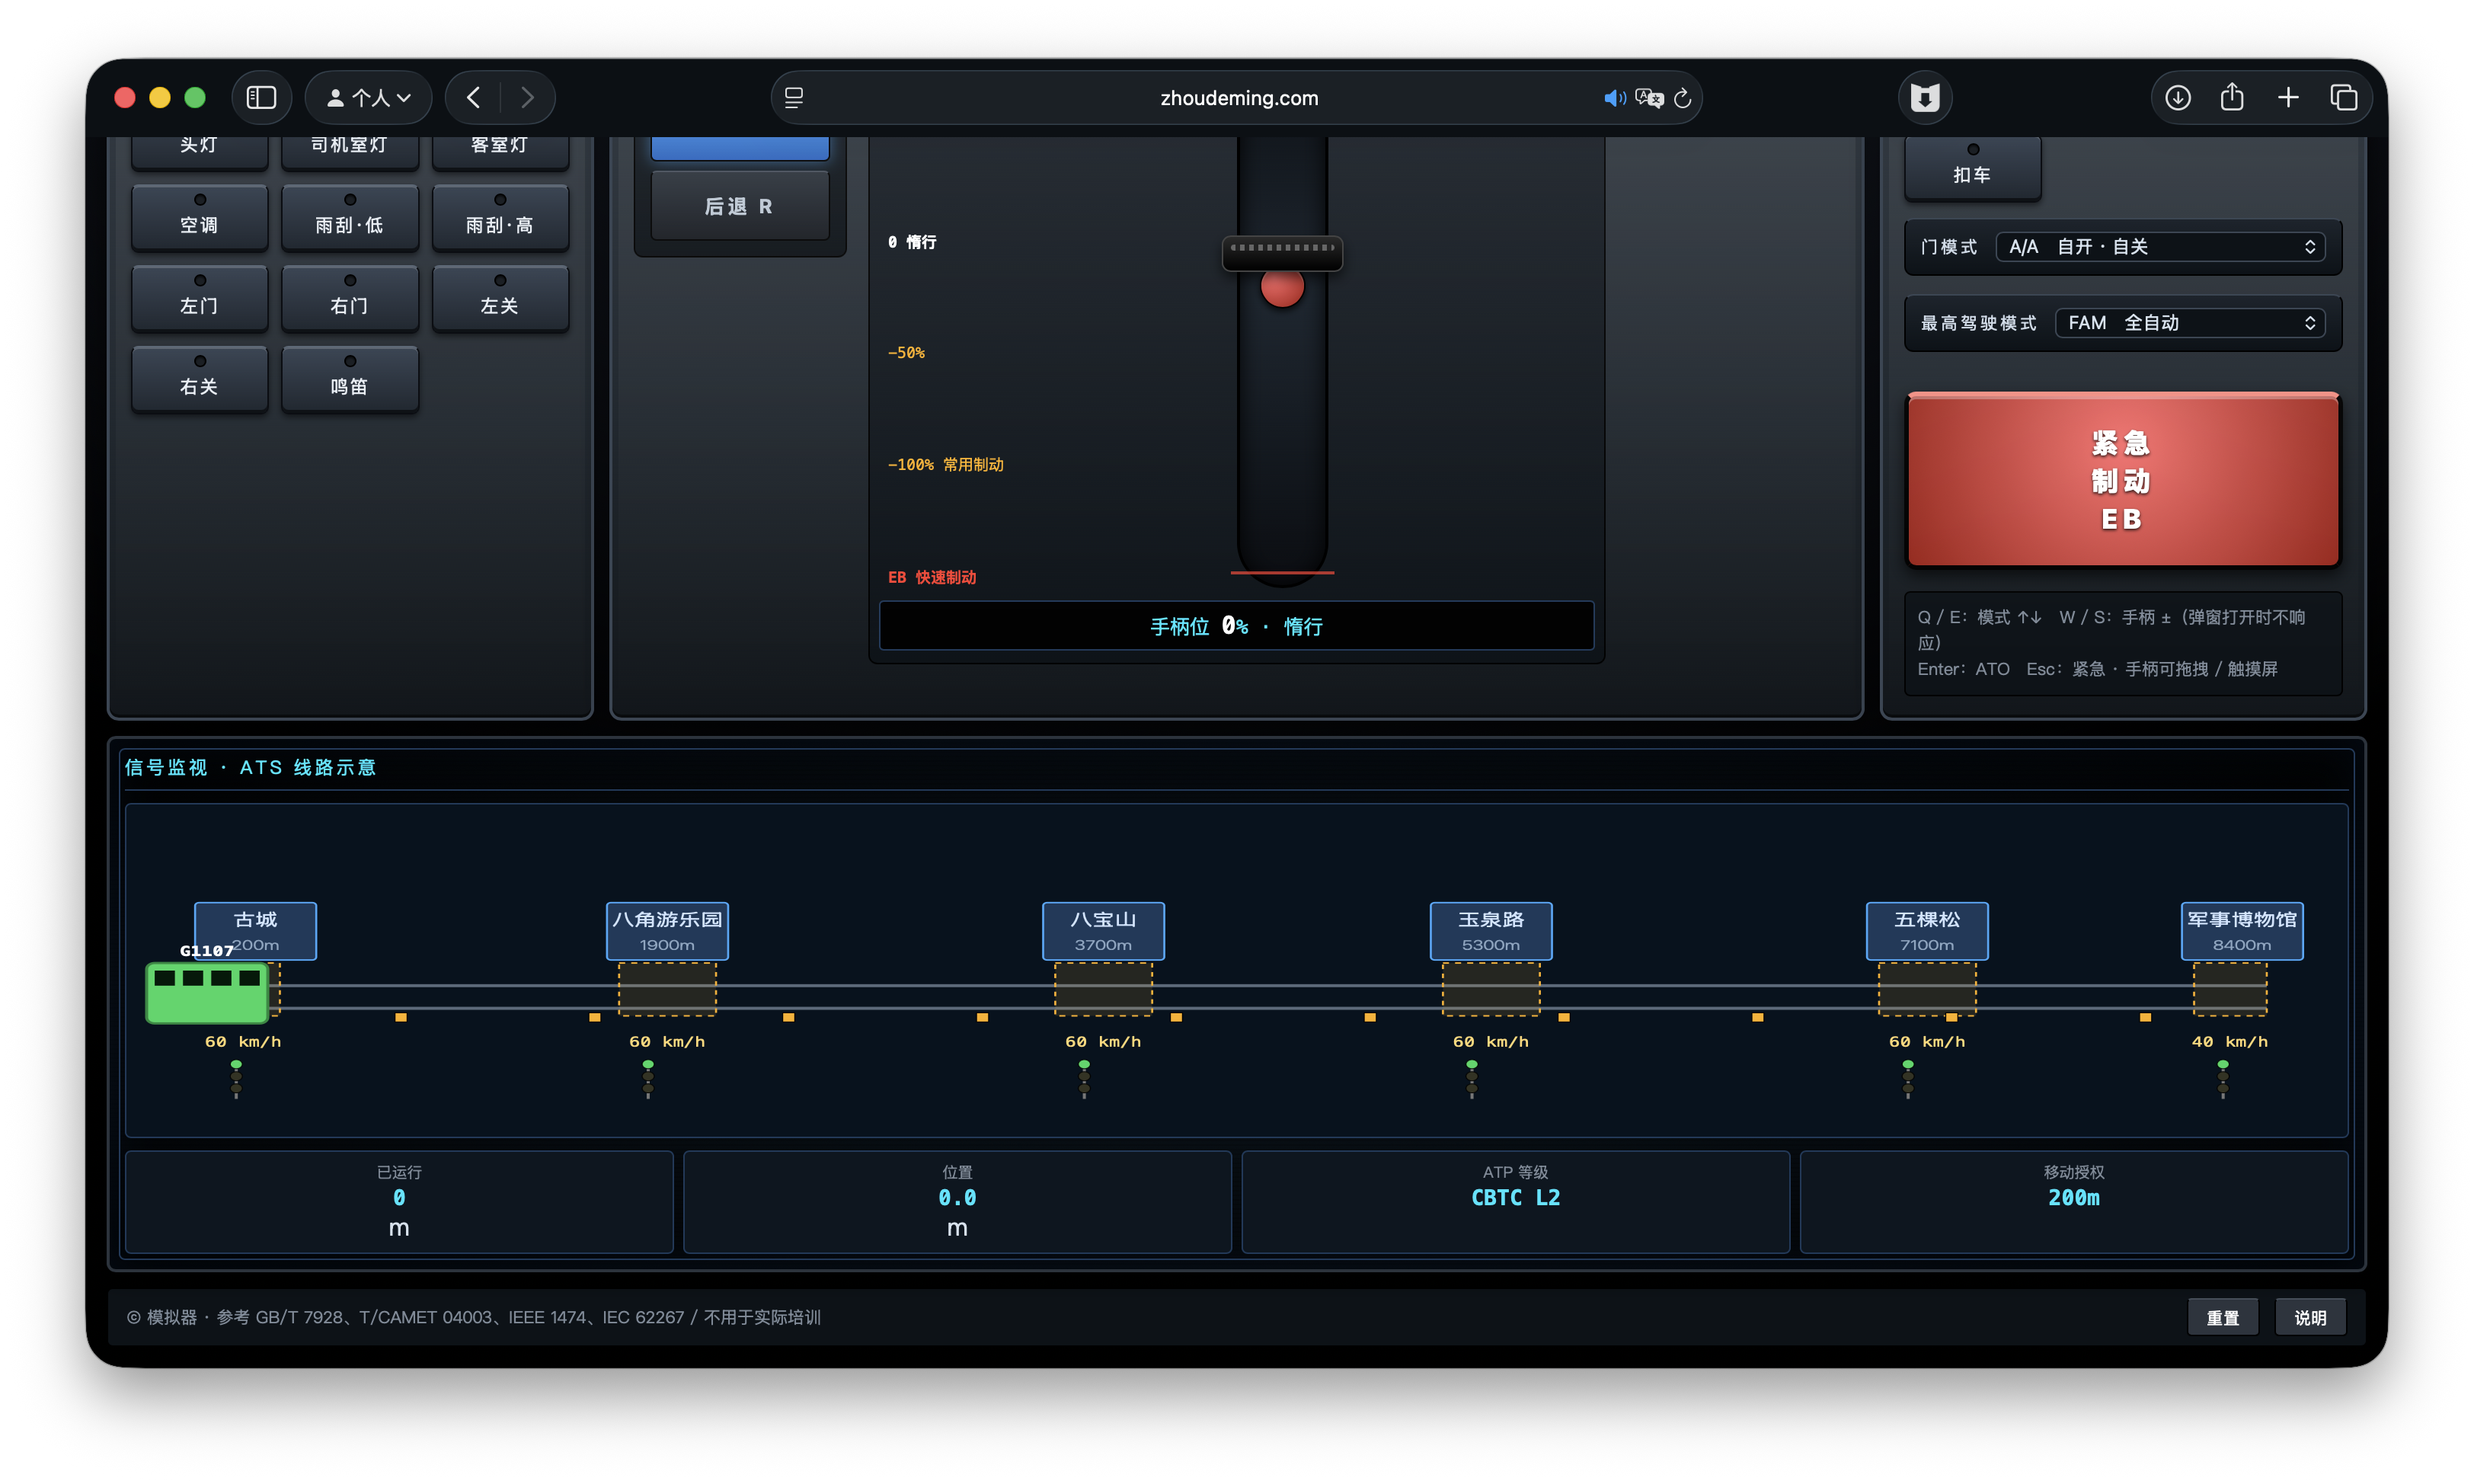
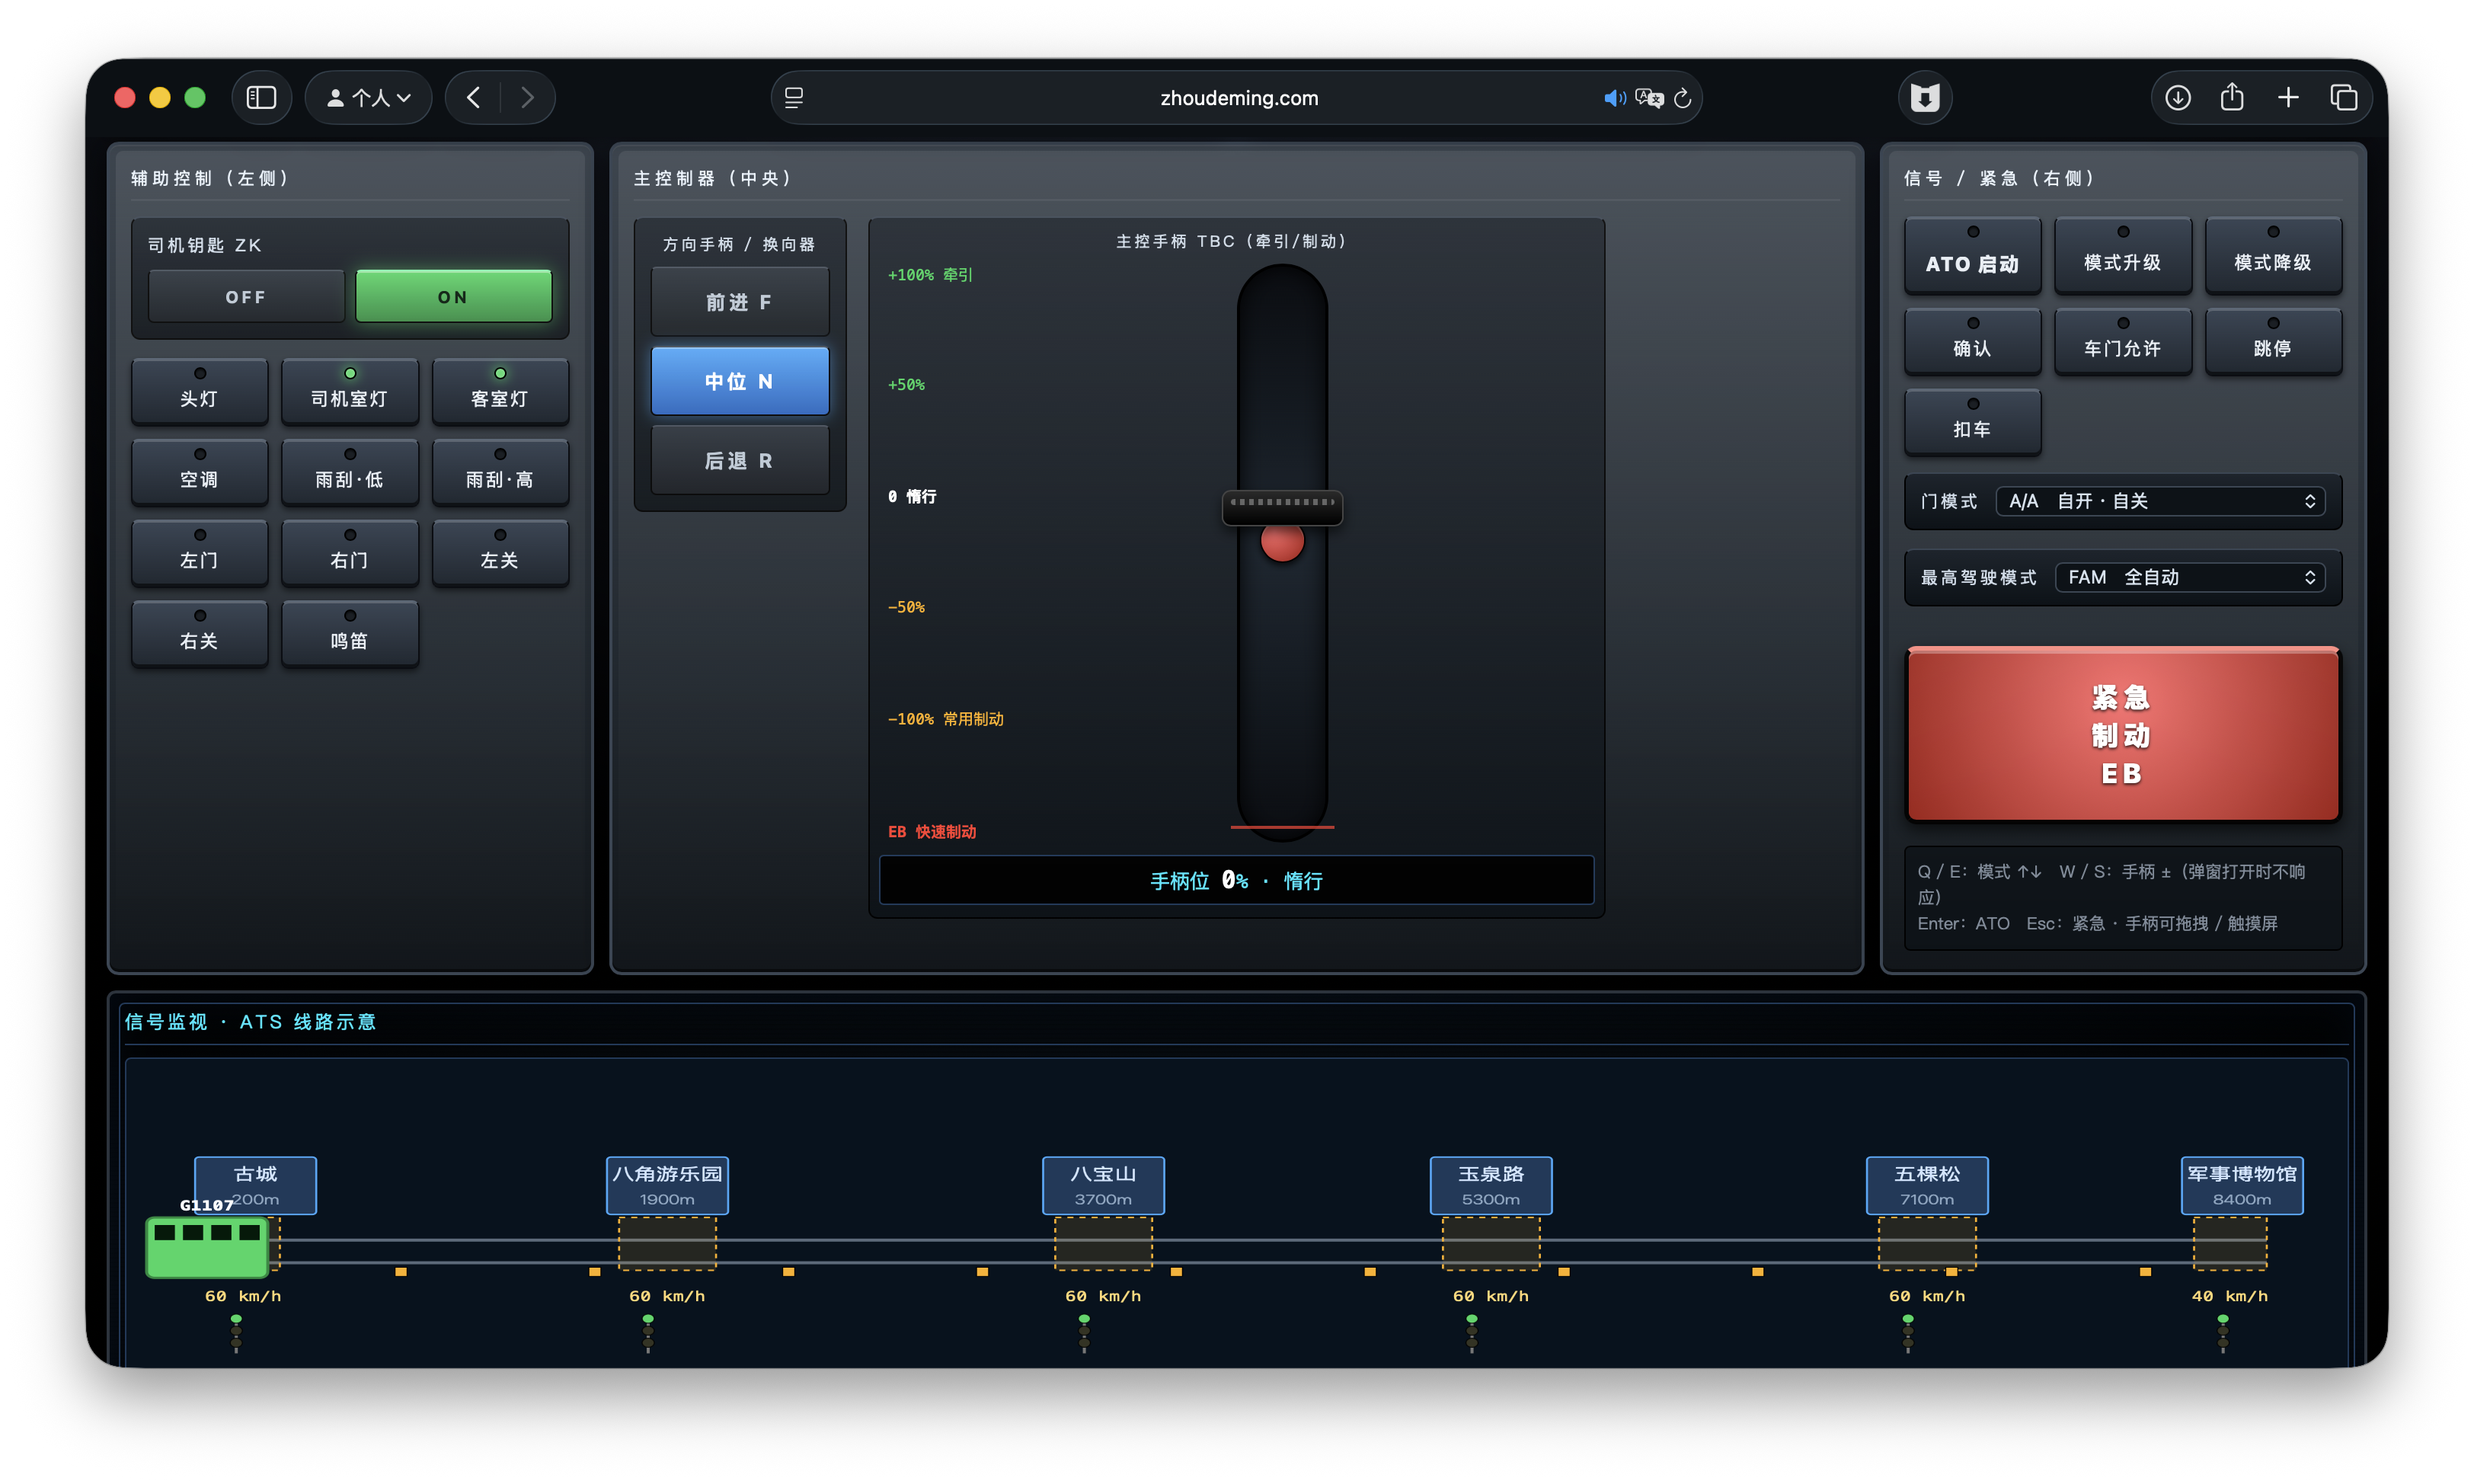
Embed demo images in README
Insert inline references to demo images (photo_02.png and photo_03.png) into the README to provide visual context near the control panel and mode keys sections. Also update the binary asset images/demo/photo_02.png.

Changed region(s): [[0.0311, 0.0926, 0.964, 0.7407], [0.0311, 0.7716, 0.964, 0.9259], [0.3421, 0.3086, 0.4042, 0.3395]]

diff --git a/README.md b/README.md
@@ -31,6 +31,7 @@
 | 中央主控 | 方向手柄（F/N/R）、**主控手柄 TBC**（牵引↑─0─常用制动─EB 快速制动，可拖拽 / W/S 键）                      |
 | 右侧信号 | ATO 启动、模式升级/降级（IS↔RM↔URM↔CM↔AM↔FAM）、确认、车门允许、跳停、扣车、**紧急制动 EB**（红色蘑菇按钮） |
 
+![图 2](images/demo/photo_02.png)
 
 ## 模式说明
 
@@ -66,6 +67,8 @@
 - `Enter`：ATO 启动
 - `Esc`：紧急制动
 - `H`：鸣笛
+
+![图 1](images/demo/photo_03.png)
 
 ## 物理模型（简化）
 
